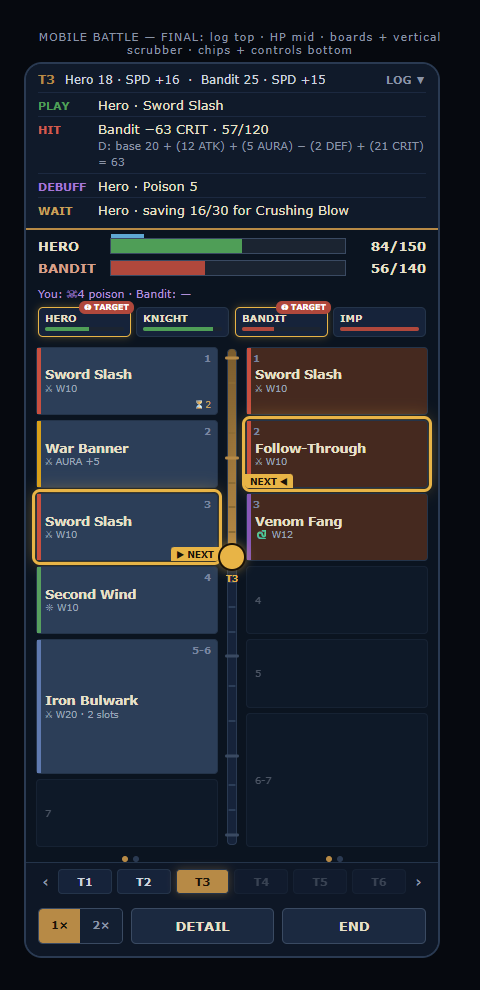
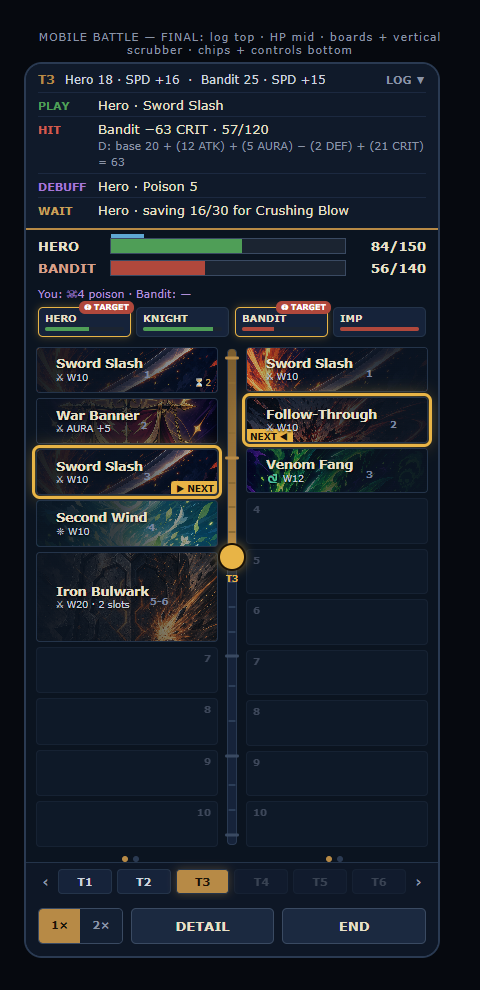
docs: lock CardToken display spec + deck build & prep mobile mockups
CardToken locked (identical across battle/deck build/prep): card art with
left-anchored legibility gradient on BOTH columns, left text with shadow,
4px property accent on the left edge, slot number in the INWARD top corner
on every slot including empties, badge corners (cooldown, gem, NEXT/DRAG
plates), size-N spans with 5-6 numbering, fonts from the profile ladder.
Deck build locked: tab bar, slim holding/trash strips, deck-left/bag-right
10+10 columns, drag primary, gem socketing deferred. Prep v2 vertical
columns (deck vs enemy skills) mocked pending lock. Harmonized mock HTML +
renders checked into docs/mockups and docs/screenshots.

Claude-Session: https://claude.ai/code/session_01Ur2snef5TQNu6p54zPQMwD

Changed region(s): [[0.0625, 0.3333, 0.4688, 0.7879], [0.5, 0.3333, 0.9062, 0.5758]]

diff --git a/docs/mockups/mobile-prep.html b/docs/mockups/mobile-prep.html
@@ -1,0 +1,140 @@
+<!DOCTYPE html>
+<html>
+<head>
+<meta charset="utf-8">
+<style>
+  body { background:#06090f; margin:0; padding:24px; font-family: Verdana, sans-serif; display:flex; justify-content:center; }
+  .phone { width:412px; height:892px; background:#0b1420; border:2px solid #2a3a52; border-radius:18px; overflow:hidden; display:flex; flex-direction:column; }
+  .label { color:#8a94a6; font-size:11px; text-align:center; padding:6px 0; letter-spacing:1px; }
+
+  .tabs { display:flex; gap:6px; padding:8px 10px 4px; }
+  .tab { flex:1; text-align:center; color:#8a94a6; font-size:12px; font-weight:bold; letter-spacing:1px; padding:9px 0; background:#131f32; border:1px solid #2a3a52; border-radius:6px; }
+  .tab.on { background:#b78a46; color:#1a1208; }
+
+  .roster { display:flex; gap:6px; padding:6px 10px 2px; }
+  .rchip { flex:1; background:#16233a; border:1px solid #24344a; border-radius:6px; padding:5px 8px; }
+  .rchip.focus { border-color:#e8b446; box-shadow:0 0 8px #e8b44655; }
+  .rname { color:#e8e0c8; font-size:11px; font-weight:bold; }
+  .rsub { color:#9aa4b6; font-size:9px; margin-top:2px; }
+  .radd { flex:none; width:64px; text-align:center; color:#8a94a6; border-style:dashed; font-size:11px; font-weight:bold; padding:11px 0; }
+
+  /* compact enemy sheet: stats + knobs in two rows */
+  .sheet { margin:4px 10px; background:#101a2a; border:1px solid #2a3a52; border-radius:8px; padding:8px 12px 8px; position:relative; }
+  .spine { position:absolute; left:0; top:0; bottom:0; width:5px; background:#c9a15a; border-radius:8px 0 0 8px; }
+  .ename { color:#e8e0c8; font-size:16px; font-weight:bold; font-family: Georgia, serif; }
+  .etag { position:absolute; right:12px; top:10px; background:#c9a15a; color:#1a1208; font-size:9px; font-weight:bold; padding:3px 8px; border-radius:4px; }
+  .estats { color:#e8e0c8; font-size:11.5px; font-weight:bold; margin-top:4px; }
+  .estats .dim { color:#9aa4b6; font-weight:normal; }
+  .threat { margin-top:3px; color:#d05c4e; font-size:12px; font-weight:bold; }
+  .weak { color:#c9a15a; font-size:10.5px; font-weight:normal; margin-left:8px; }
+  .knobs { display:flex; gap:6px; margin-top:7px; }
+  .titlechips { display:flex; gap:4px; flex:1; }
+  .tc { flex:1; text-align:center; font-size:9px; font-weight:bold; color:#8a94a6; background:#16233a; border:1px solid #24344a; border-radius:4px; padding:6px 0; }
+  .tc.on { background:#c9a15a; color:#1a1208; }
+  .step { display:flex; align-items:center; gap:5px; background:#16233a; border:1px solid #24344a; border-radius:4px; padding:3px 7px; }
+  .step b { color:#e8e0c8; font-size:12px; }
+  .step span { color:#8a94a6; font-size:9px; font-weight:bold; }
+  .pm { color:#e8e0c8; font-size:14px; font-weight:bold; padding:0 3px; }
+
+  /* the vertical columns — same shape as deck build & battle */
+  .colwrap { flex:1; display:flex; gap:8px; padding:4px 10px; }
+  .colhead { color:#b78a46; font-size:10px; font-weight:bold; letter-spacing:1px; text-align:center; padding:2px 0 4px; }
+  .col { flex:1; display:flex; flex-direction:column; }
+  .slots { flex:1; display:flex; flex-direction:column; gap:5px; }
+  .slot { flex:1; background:#121e30; border:1px solid #24344a; border-radius:4px; position:relative; display:flex; align-items:center; padding:0 8px; gap:7px; overflow:hidden; }
+  .slot.empty { opacity:.45; }
+  .accent { position:absolute; left:0; top:0; bottom:0; width:4px; }
+  .cname { color:#e8e0c8; font-size:12px; font-weight:bold; line-height:1.15; text-shadow:0 1px 3px #000; }
+  .csub { color:#c8d0dc; font-size:9px; text-shadow:0 1px 2px #000; }
+  .num { position:absolute; right:6px; top:4px; color:#aab4c6; font-size:10px; font-weight:bold; text-shadow:0 1px 2px #000; z-index:1; }
+  .nume { left:6px; right:auto; }
+  .art { background-size:cover; background-position:center 22%; }
+  .art::before { content:""; position:absolute; inset:0; background:linear-gradient(90deg, #0b1420ee 0%, #0b1420cc 46%, #0b142033 100%); }
+  .art.e::before { background:linear-gradient(270deg, #0b1420ee 0%, #0b1420cc 46%, #0b142033 100%); }
+  .art > * { position:relative; z-index:1; }
+
+  .identity { display:flex; align-items:center; justify-content:center; gap:6px; padding:4px 0 2px; color:#e8e0c8; font-size:10px; font-weight:bold; }
+  .pip { width:9px; height:9px; background:#b78a46; border:1px solid #3a4a62; }
+  .idtail { color:#8a94a6; font-weight:normal; }
+
+  .foot { display:flex; gap:8px; padding:8px 10px 12px; background:#0e1726; border-top:1px solid #24344a; }
+  .btn { background:#1b2940; border:1px solid #3a4a62; color:#e8e0c8; font-size:13px; font-weight:bold; padding:12px 0; text-align:center; border-radius:6px; flex:1; }
+  .btn.gold { background:#b78a46; color:#1a1208; flex:2; }
+</style>
+</head>
+<body>
+
+<div>
+<div class="label">MOBILE PREP v2 — vertical columns: YOUR DECK vs ENEMY SKILLS, like battle</div>
+<div class="phone">
+  <div class="tabs">
+    <div class="tab on">PREP</div>
+    <div class="tab">DECK BUILD</div>
+    <div class="tab">WIKI</div>
+  </div>
+
+  <div class="roster">
+    <div class="rchip focus"><div class="rname">BANDIT DUELIST</div><div class="rsub">ELITE · LV 1 · PL 37.5</div></div>
+    <div class="rchip"><div class="rname">EMBER IMP</div><div class="rsub">MOB · LV 1</div></div>
+    <div class="rchip radd">+ FOE</div>
+  </div>
+
+  <div class="sheet">
+    <div class="spine"></div>
+    <div class="etag">ELITE</div>
+    <div class="ename">Bandit Duelist</div>
+    <div class="estats">HP 140 · SPD 15 · ATK 16 · MAG 0 <span class="dim">· DEF 2 · RES 1 · CRIT 9%</span></div>
+    <div class="threat">DMG/turn 36–43 <span class="weak">⚔ weak to LANCE</span></div>
+    <div class="knobs">
+      <div class="titlechips">
+        <div class="tc">MOB</div><div class="tc">NORM</div><div class="tc on">ELITE</div><div class="tc">BOSS</div>
+      </div>
+      <div class="step"><span>LV</span><div class="pm">−</div><b>1</b><div class="pm">+</div></div>
+      <div class="step"><span>RANK</span><div class="pm">−</div><b>2</b><div class="pm">+</div></div>
+    </div>
+  </div>
+
+  <div class="colwrap">
+    <div class="col">
+      <div class="colhead">YOUR DECK · 8/10 · PL 64</div>
+      <div class="slots">
+        <div class="slot art" style="background-image:url('file:///C:/Users/wenwa/source/repos/wwang109/world1/public/game-art/cards/sword-slash-anime.png')"><div class="accent" style="background:#c94f3f"></div><div><div class="cname">Sword Slash</div><div class="csub">⚔ W10</div></div><div class="num">1</div></div>
+        <div class="slot art" style="background-image:url('file:///C:/Users/wenwa/source/repos/wwang109/world1/public/game-art/cards/war-banner-anime.png')"><div class="accent" style="background:#d8a018"></div><div><div class="cname">War Banner</div><div class="csub">⚔ AURA +5</div></div><div class="num">2</div></div>
+        <div class="slot art" style="background-image:url('file:///C:/Users/wenwa/source/repos/wwang109/world1/public/game-art/cards/sword-slash-anime.png')"><div class="accent" style="background:#c94f3f"></div><div><div class="cname">Sword Slash</div><div class="csub">⚔ W10</div></div><div class="num">3</div></div>
+        <div class="slot art" style="background-image:url('file:///C:/Users/wenwa/source/repos/wwang109/world1/public/game-art/cards/second-wind-anime.png')"><div class="accent" style="background:#57a05f"></div><div><div class="cname">Second Wind</div><div class="csub">❊ HEAL 50</div></div><div class="num">4</div></div>
+        <div class="slot art" style="flex:2; background-image:url('file:///C:/Users/wenwa/source/repos/wwang109/world1/public/game-art/cards/iron-bulwark-anime.png')"><div class="accent" style="background:#5f7ab0"></div><div><div class="cname">Iron Bulwark</div><div class="csub">⚔ SHLD 48 · 2 slots</div></div><div class="num">5-6</div></div>
+        <div class="slot empty"><div class="num">7</div></div>
+        <div class="slot empty"><div class="num">8</div></div>
+        <div class="slot empty"><div class="num">9</div></div>
+        <div class="slot empty"><div class="num">10</div></div>
+      </div>
+      <div class="identity">SWORD <div class="pip"></div><div class="pip"></div><div class="pip"></div> <span class="idtail">+20% DMG</span></div>
+    </div>
+
+    <div class="col">
+      <div class="colhead">ENEMY SKILLS · 3 cards</div>
+      <div class="slots">
+        <div class="slot art e" style="background-image:url('file:///C:/Users/wenwa/source/repos/wwang109/world1/public/game-art/cards/sword-slash-anime.png')"><div class="accent" style="background:#c94f3f"></div><div><div class="cname">Sword Slash</div><div class="csub">⚔ DMG 30</div></div><div class="num nume">1</div></div>
+        <div class="slot art e" style="background-image:url('file:///C:/Users/wenwa/source/repos/wwang109/world1/public/game-art/cards/follow-through-anime.png')"><div class="accent" style="background:#c94f3f"></div><div><div class="cname">Follow-Through</div><div class="csub">⚔ DMG 15 · COMBO</div></div><div class="num nume">2</div></div>
+        <div class="slot art e" style="background-image:url('file:///C:/Users/wenwa/source/repos/wwang109/world1/public/game-art/cards/venom-fang-anime.png')"><div class="accent" style="background:#8858b8"></div><div><div class="cname">Venom Fang</div><div class="csub">🐍 DMG 16 · PSN 5</div></div><div class="num nume">3</div></div>
+        <div class="slot empty"><div class="num nume">4</div></div>
+        <div class="slot empty"><div class="num nume">5</div></div>
+        <div class="slot empty"><div class="num nume">6</div></div>
+        <div class="slot empty"><div class="num nume">7</div></div>
+        <div class="slot empty"><div class="num nume">8</div></div>
+        <div class="slot empty"><div class="num nume">9</div></div>
+        <div class="slot empty"><div class="num nume">10</div></div>
+      </div>
+      <div class="identity"><span class="idtail">tap any card to inspect</span></div>
+    </div>
+  </div>
+
+  <div class="foot">
+    <div class="btn">🎲 SEED 1</div>
+    <div class="btn gold">⚔ FIGHT</div>
+  </div>
+</div>
+</div>
+
+</body>
+</html>

diff --git a/docs/mockups/mobile-deckbuild.html b/docs/mockups/mobile-deckbuild.html
@@ -1,0 +1,122 @@
+<!DOCTYPE html>
+<html>
+<head>
+<meta charset="utf-8">
+<style>
+  body { background:#06090f; margin:0; padding:24px; font-family: Verdana, sans-serif; display:flex; justify-content:center; }
+  .phone { width:412px; height:892px; background:#0b1420; border:2px solid #2a3a52; border-radius:18px; overflow:hidden; display:flex; flex-direction:column; }
+  .label { color:#8a94a6; font-size:11px; text-align:center; padding:6px 0; letter-spacing:1px; }
+
+  /* top-level tab switcher */
+  .tabs { display:flex; gap:6px; padding:8px 10px 4px; }
+  .tab { flex:1; text-align:center; color:#8a94a6; font-size:12px; font-weight:bold; letter-spacing:1px; padding:9px 0; background:#131f32; border:1px solid #2a3a52; border-radius:6px; }
+  .tab.on { background:#b78a46; color:#1a1208; }
+
+  .hdr { display:flex; align-items:center; gap:8px; padding:4px 12px 2px; }
+  .meta { color:#9aa4b6; font-size:10px; }
+  .meta b { color:#e8e0c8; }
+
+  /* transfer strip on TOP — slim */
+  .transfer { margin:3px 10px; border:1px dashed #b78a46; border-radius:6px; background:#12203366; display:flex; align-items:center; gap:10px; padding:4px 10px; }
+  .tslot { width:34px; height:40px; background:#16233a; border:1px solid #3a4a62; border-radius:4px; flex:none; display:flex; align-items:center; justify-content:center; }
+  .tlabel { color:#c9a15a; font-size:11px; font-weight:bold; }
+  .tsub { color:#8a94a6; font-size:9.5px; }
+
+  /* columns */
+  .colwrap { flex:1; display:flex; gap:8px; padding:4px 10px; }
+  .colhead { color:#b78a46; font-size:10px; font-weight:bold; letter-spacing:1px; text-align:center; padding:2px 0 4px; }
+  .col { flex:1; display:flex; flex-direction:column; }
+  .slots { flex:1; display:flex; flex-direction:column; gap:5px; }
+  .slot { flex:1; background:#121e30; border:1px solid #24344a; border-radius:4px; position:relative; display:flex; align-items:center; padding:0 8px; gap:7px; overflow:hidden; }
+  .slot.empty { opacity:.45; }
+  .cardp { background:#2c3e58; }
+  .cardb { background:#243146; }
+  /* CARD ART as the token background + gradient overlay for text legibility */
+  .art { background-size:cover; background-position:center 22%; }
+  .art::before { content:""; position:absolute; inset:0; background:linear-gradient(90deg, #0b1420ee 0%, #0b1420cc 46%, #0b142033 100%); }
+  .art > * { position:relative; z-index:1; }
+  .art .cname { text-shadow:0 1px 3px #000; }
+  .art .csub { color:#c8d0dc; text-shadow:0 1px 2px #000; }
+  .accent { position:absolute; left:0; top:0; bottom:0; width:4px; }
+  .cname { color:#e8e0c8; font-size:12.5px; font-weight:bold; line-height:1.15; }
+  .csub { color:#9aa4b6; font-size:9.5px; }
+  .num { position:absolute; right:6px; top:4px; color:#7a86a0; font-size:10px; font-weight:bold; }
+  .gem { position:absolute; right:6px; bottom:4px; font-size:10px; }
+  .dragging { outline:3px solid #e8b446; outline-offset:1px; box-shadow:0 0 18px #e8b44688; opacity:.92; }
+  .dragging::after { content:"DRAGGING"; position:absolute; right:-2px; bottom:-1px; background:#e8b446; color:#1a1208; font-size:8px; font-weight:bold; padding:1px 5px; border-radius:3px 0 3px 0; }
+  .droptarget { border:2px dashed #e8b446; background:#2a2412; opacity:1; }
+  .droptarget .csub { color:#e8b446; font-weight:bold; }
+
+  /* identity pips under deck column */
+  .identity { display:flex; align-items:center; justify-content:center; gap:6px; padding:5px 0 2px; color:#e8e0c8; font-size:10px; font-weight:bold; }
+  .pip { width:9px; height:9px; background:#b78a46; border:1px solid #3a4a62; }
+  .pip.empty { background:#16233a; }
+  .idtail { color:#8a94a6; font-weight:normal; }
+
+  /* trash on BOTTOM — slim */
+  .trash { margin:3px 10px 10px; border:1px dashed #b0483c; border-radius:6px; background:#2a141266; display:flex; align-items:center; gap:10px; padding:4px 10px; }
+  .trash .tlabel { color:#d05c4e; }
+</style>
+</head>
+<body>
+
+<div>
+<div class="label">MOBILE DECK BUILD — transfer top · deck left / bag right · trash bottom</div>
+<div class="phone">
+  <div class="tabs">
+    <div class="tab">PREP</div>
+    <div class="tab on">DECK BUILD</div>
+    <div class="tab">WIKI</div>
+  </div>
+  <div class="hdr">
+    <div class="meta"><b>LV 1</b> · HP 150 · ATK 12 · MAG 12 · SPD 12 &nbsp;·&nbsp; <b>8/10 slots</b> · PL 64 · 2 gems</div>
+  </div>
+
+  <div class="transfer">
+    <div class="tslot" style="color:#5a6880">⇱</div>
+    <div><div class="tlabel">TEMP HOLDING <span class="tsub">— drop a card to hold it while rearranging</span></div></div>
+  </div>
+
+  <div class="colwrap">
+    <div class="col">
+      <div class="colhead">ACTIVE DECK · 8/10</div>
+      <div class="slots">
+        <div class="slot cardp art" data-art="1" style="background-image:url('file:///C:/Users/wenwa/source/repos/wwang109/world1/public/game-art/cards/sword-slash-anime.png')"><div class="accent" style="background:#c94f3f"></div><div><div class="cname">Sword Slash</div><div class="csub">⚔ W10 · BRONZE</div></div><div class="num">1</div></div>
+        <div class="slot cardp art" data-art="1" style="background-image:url('file:///C:/Users/wenwa/source/repos/wwang109/world1/public/game-art/cards/war-banner-anime.png')"><div class="accent" style="background:#d8a018"></div><div><div class="cname">War Banner</div><div class="csub">⚔ AURA +5</div></div><div class="num">2</div><div class="gem">💎</div></div>
+        <div class="slot cardp art" data-art="1" style="background-image:url('file:///C:/Users/wenwa/source/repos/wwang109/world1/public/game-art/cards/sword-slash-anime.png')"><div class="accent" style="background:#c94f3f"></div><div><div class="cname">Sword Slash</div><div class="csub">⚔ W10</div></div><div class="num">3</div><div class="gem">💎</div></div>
+        <div class="slot cardp art" data-art="1" style="background-image:url('file:///C:/Users/wenwa/source/repos/wwang109/world1/public/game-art/cards/second-wind-anime.png')"><div class="accent" style="background:#57a05f"></div><div><div class="cname">Second Wind</div><div class="csub">❊ W10</div></div><div class="num">4</div></div>
+        <div class="slot cardp art" data-art="1" style="flex:2; background-image:url('file:///C:/Users/wenwa/source/repos/wwang109/world1/public/game-art/cards/iron-bulwark-anime.png')"><div class="accent" style="background:#5f7ab0"></div><div><div class="cname">Iron Bulwark</div><div class="csub">⚔ W20 · 2 slots</div></div><div class="num">5-6</div></div>
+        <div class="slot empty droptarget"><div class="csub">7 — drop to place</div></div>
+        <div class="slot empty"><div class="num">8</div></div><div class="slot empty"><div class="num">9</div></div><div class="slot empty"><div class="num">10</div></div>
+      </div>
+      <div class="identity">SWORD <div class="pip"></div><div class="pip"></div><div class="pip"></div> <span class="idtail">+20% DMG</span></div>
+    </div>
+
+    <div class="col">
+      <div class="colhead">BAG · 6/10</div>
+      <div class="slots">
+        <div class="slot cardb dragging art" data-art="1" style="flex:2; background-image:url('file:///C:/Users/wenwa/source/repos/wwang109/world1/public/game-art/cards/fireball-anime.png')"><div class="accent" style="background:#d86a2a"></div><div><div class="cname">Fireball</div><div class="csub">🔥 W20 · 2 slots · BRN 5</div></div><div class="num nume">1-2</div></div>
+        <div class="slot cardb art" data-art="1" style="background-image:url('file:///C:/Users/wenwa/source/repos/wwang109/world1/public/game-art/cards/mana-ward-anime.png')"><div class="accent" style="background:#5fa8d3"></div><div><div class="cname">Mana Ward</div><div class="csub">❆ SHLD 20</div></div><div class="num nume">3</div></div>
+        <div class="slot cardb art" data-art="1" style="background-image:url('file:///C:/Users/wenwa/source/repos/wwang109/world1/public/game-art/cards/follow-through-anime.png')"><div class="accent" style="background:#c94f3f"></div><div><div class="cname">Follow-Through</div><div class="csub">⚔ COMBO +10</div></div><div class="num nume">4</div></div>
+        <div class="slot cardb art" data-art="1" style="background-image:url('file:///C:/Users/wenwa/source/repos/wwang109/world1/public/game-art/cards/armor-break-anime.png')"><div class="accent" style="background:#8b6f3a"></div><div><div class="cname">Armor Break</div><div class="csub">🪓 −50% DEF</div></div><div class="num nume">5</div></div>
+        <div class="slot cardb art" data-art="1" style="flex:2; background-image:url('file:///C:/Users/wenwa/source/repos/wwang109/world1/public/game-art/cards/crippling-strike-anime.png')"><div class="accent" style="background:#a678d8"></div><div><div class="cname">Crippling Strike</div><div class="csub">🔱 W20 · 2 slots</div></div><div class="num nume">6-7</div></div>
+        <div class="slot cardb art" data-art="1" style="background-image:url('file:///C:/Users/wenwa/source/repos/wwang109/world1/public/game-art/cards/arcane-bolt-anime.png')"><div class="accent" style="background:#5f7ab0"></div><div><div class="cname">Arcane Bolt</div><div class="csub">⚡ DMG 18</div></div><div class="num nume">8</div></div>
+        <div class="slot empty"><div class="num nume">9</div></div><div class="slot empty"><div class="num nume">10</div></div>
+      </div>
+      <div class="identity"><span class="idtail">tap a card to inspect · long-press for gems</span></div>
+    </div>
+  </div>
+
+  <div class="trash">
+    <div class="tslot" style="color:#7a4a42">🗑</div>
+    <div><div class="tlabel">TRASH <span class="tsub">— drop to destroy (asks to confirm)</span></div></div>
+  </div>
+</div>
+</div>
+
+</body>
+</html>
+
+
+
+

diff --git a/docs/mockups/mobile-battle-final.html b/docs/mockups/mobile-battle-final.html
@@ -57,6 +57,13 @@
   .csub { color:#9aa4b6; font-size:9.5px; }
   .num { position:absolute; right:6px; top:4px; color:#7a86a0; font-size:10px; font-weight:bold; }
   .nume { left:6px; right:auto; }
+  /* shared CardToken art treatment — identical to deck build / prep */
+  .art { background-size:cover; background-position:center 22%; overflow:hidden; }
+  .art::before { content:""; position:absolute; inset:0; background:linear-gradient(90deg, #0b1420ee 0%, #0b1420cc 46%, #0b142033 100%); }
+  .art.e::before { background:linear-gradient(270deg, #0b1420ee 0%, #0b1420cc 46%, #0b142033 100%); }
+  .art > * { position:relative; z-index:1; }
+  .art .cname { text-shadow:0 1px 3px #000; }
+  .art .csub { color:#c8d0dc; text-shadow:0 1px 2px #000; }
   .cursor { outline:3px solid #e8b446; outline-offset:1px; box-shadow:0 0 18px #e8b44688; }
   .cursor::after { content:"▶ NEXT"; position:absolute; right:-2px; bottom:-1px; background:#e8b446; color:#1a1208; font-size:9px; font-weight:bold; padding:1px 5px; border-radius:3px 0 3px 0; }
   .cursorE::after { content:"NEXT ◀"; right:auto; left:-2px; border-radius:0 3px 0 3px; }
@@ -118,12 +125,15 @@
   </div>
   <div class="boards">
     <div class="col">
-      <div class="slot cardp"><div class="accent" style="background:#c94f3f"></div><div><div class="cname">Sword Slash</div><div class="csub">⚔ W10</div></div><div class="num">1</div><div class="cooldown">⏳2</div></div>
-      <div class="slot cardp"><div class="accent" style="background:#d8a018"></div><div><div class="cname">War Banner</div><div class="csub">⚔ AURA +5</div></div><div class="num">2</div></div>
-      <div class="slot cardp cursor"><div class="accent" style="background:#c94f3f"></div><div><div class="cname">Sword Slash</div><div class="csub">⚔ W10</div></div><div class="num">3</div></div>
-      <div class="slot cardp"><div class="accent" style="background:#57a05f"></div><div><div class="cname">Second Wind</div><div class="csub">❊ W10</div></div><div class="num">4</div></div>
-      <div class="slot cardp" style="flex:2"><div class="accent" style="background:#5f7ab0"></div><div><div class="cname">Iron Bulwark</div><div class="csub">⚔ W20 · 2 slots</div></div><div class="num">5-6</div></div>
-      <div class="slot empty"><div class="csub">7</div></div>
+      <div class="slot cardp art" style="background-image:url('file:///C:/Users/wenwa/source/repos/wwang109/world1/public/game-art/cards/sword-slash-anime.png')"><div class="accent" style="background:#c94f3f"></div><div><div class="cname">Sword Slash</div><div class="csub">⚔ W10</div></div><div class="num">1</div><div class="cooldown">⏳2</div></div>
+      <div class="slot cardp art" style="background-image:url('file:///C:/Users/wenwa/source/repos/wwang109/world1/public/game-art/cards/war-banner-anime.png')"><div class="accent" style="background:#d8a018"></div><div><div class="cname">War Banner</div><div class="csub">⚔ AURA +5</div></div><div class="num">2</div></div>
+      <div class="slot cardp art cursor" style="background-image:url('file:///C:/Users/wenwa/source/repos/wwang109/world1/public/game-art/cards/sword-slash-anime.png')"><div class="accent" style="background:#c94f3f"></div><div><div class="cname">Sword Slash</div><div class="csub">⚔ W10</div></div><div class="num">3</div></div>
+      <div class="slot cardp art" style="background-image:url('file:///C:/Users/wenwa/source/repos/wwang109/world1/public/game-art/cards/second-wind-anime.png')"><div class="accent" style="background:#57a05f"></div><div><div class="cname">Second Wind</div><div class="csub">❊ W10</div></div><div class="num">4</div></div>
+      <div class="slot cardp art" style="flex:2; background-image:url('file:///C:/Users/wenwa/source/repos/wwang109/world1/public/game-art/cards/iron-bulwark-anime.png')"><div class="accent" style="background:#5f7ab0"></div><div><div class="cname">Iron Bulwark</div><div class="csub">⚔ W20 · 2 slots</div></div><div class="num">5-6</div></div>
+      <div class="slot empty"><div class="num">7</div></div>
+      <div class="slot empty"><div class="num">8</div></div>
+      <div class="slot empty"><div class="num">9</div></div>
+      <div class="slot empty"><div class="num">10</div></div>
     </div>
     <div class="vtrack">
       <div class="vrail"></div>
@@ -151,12 +161,16 @@
       <div class="vlabel">T3</div>
     </div>
     <div class="col">
-      <div class="slot carde"><div class="accent" style="background:#c94f3f"></div><div><div class="cname">Sword Slash</div><div class="csub">⚔ W10</div></div><div class="num nume">1</div></div>
-      <div class="slot carde cursor cursorE"><div class="accent" style="background:#c94f3f"></div><div><div class="cname">Follow-Through</div><div class="csub">⚔ W10</div></div><div class="num nume">2</div></div>
-      <div class="slot carde"><div class="accent" style="background:#8858b8"></div><div><div class="cname">Venom Fang</div><div class="csub">🐍 W12</div></div><div class="num nume">3</div></div>
-      <div class="slot empty"><div class="csub">4</div></div>
-      <div class="slot empty"><div class="csub">5</div></div>
-      <div class="slot empty" style="flex:2"><div class="csub">6-7</div></div>
+      <div class="slot carde art e" style="background-image:url('file:///C:/Users/wenwa/source/repos/wwang109/world1/public/game-art/cards/sword-slash-anime.png')"><div class="accent" style="background:#c94f3f"></div><div><div class="cname">Sword Slash</div><div class="csub">⚔ W10</div></div><div class="num nume">1</div></div>
+      <div class="slot carde art e cursor cursorE" style="background-image:url('file:///C:/Users/wenwa/source/repos/wwang109/world1/public/game-art/cards/follow-through-anime.png')"><div class="accent" style="background:#c94f3f"></div><div><div class="cname">Follow-Through</div><div class="csub">⚔ W10</div></div><div class="num nume">2</div></div>
+      <div class="slot carde art e" style="background-image:url('file:///C:/Users/wenwa/source/repos/wwang109/world1/public/game-art/cards/venom-fang-anime.png')"><div class="accent" style="background:#8858b8"></div><div><div class="cname">Venom Fang</div><div class="csub">🐍 W12</div></div><div class="num nume">3</div></div>
+      <div class="slot empty"><div class="num nume">4</div></div>
+      <div class="slot empty"><div class="num nume">5</div></div>
+      <div class="slot empty"><div class="num nume">6</div></div>
+      <div class="slot empty"><div class="num nume">7</div></div>
+      <div class="slot empty"><div class="num nume">8</div></div>
+      <div class="slot empty"><div class="num nume">9</div></div>
+      <div class="slot empty"><div class="num nume">10</div></div>
     </div>
   </div>
   <div style="display:flex; padding:0 10px;">

diff --git a/docs/superpowers/plans/2026-07-21-mobile-layout-redesign.md b/docs/superpowers/plans/2026-07-21-mobile-layout-redesign.md
@@ -89,9 +89,47 @@ text resolution); the problem is SIZE and DENSITY, not blur.
 | Screen | Intent |
 |---|---|
 | Battle | LOCKED — v5 spec in decision 3 (`docs/mockups/mobile-battle-final.html`, `docs/screenshots/mobile-battle-final-v5.png`) |
-| Deck build | Drag-and-drop kept; bag as 3-wide V2 card grid; full-width 10-slot rail; identity pips beneath; inspect as bottom sheet |
+| Deck build | LOCKED (v2+art mockups, user-approved 2026-07-21): PREP/DECK BUILD/WIKI tab bar on top · slim TEMP HOLDING strip · ACTIVE DECK left / BAG right as battle-style vertical columns (10 slots EACH, size-2 cards span two) · slim TRASH strip on the bottom (confirm on drop) · drag-and-drop primary (short horizontal hop across the gutter) · **tokens use CARD ART backgrounds with a left-anchored dark gradient overlay** (shared constant; same token component as the battle boards; art from `cardArtCatalog`) · identity pips under the deck column · tap = V2 card modal (inspect is modal-only) · **gem socketing UI: DEFERRED** (no mobile design yet — user, 2026-07-21; long-press + bottom sheet was floated, nothing locked) |
 | Prep / choose fight | One enemy visible + swipe between roster entries; keep stat block + DMG/turn threat line |
 | Wiki | Cards grid 2-wide; RULES tabs already single-column and reflow cleanly; TABLE view likely desktop-only or horizontally scrollable |
+
+## Shared components (user-locked 2026-07-22)
+
+All three mobile screens are assemblies of TWO shared components in
+`src/game/ui/` — never per-scene copies:
+
+- **CardToken — DISPLAY SPEC (user-locked 2026-07-22).** Identical on every
+  screen; only size and badge set vary:
+  - **Background**: the card's art (`cardArtCatalog`), cover-fit, focal
+    point ~22% from the top; over it a LEFT-anchored legibility gradient
+    (near-opaque panel color on the left, fading to ~20% by the right
+    edge). The gradient is left-anchored on BOTH columns — text legibility
+    beats visual symmetry; only the slot number mirrors.
+  - **Accent stripe**: 4px property-color bar on the token's left edge,
+    always.
+  - **Text block**: left-aligned over the gradient with text shadow —
+    name (bold, profile type ladder) + one sub-line (type icon · context
+    numbers: weight in battle, effect summary in prep/bag, tier when
+    relevant).
+  - **Slot number**: INWARD top corner — left column top-RIGHT, right
+    column top-LEFT — on every slot, filled or EMPTY (empties are flat
+    panel color at ~45% opacity, no art, number only). The token reserves
+    that corner so the number never collides with name or badges.
+  - **Badges**: cooldown ⏳n bottom-inward corner (battle) · gem 💎
+    bottom-right (deck build) · gold corner plates for ▶ NEXT (cursor) and
+    DRAGGING states · cursor/drag emphasis = 3px gold outline + glow.
+  - **Size-N cards** render as ONE token spanning N slot heights, numbered
+    `5-6` style.
+  - Fonts and paddings come from the layout profile's ladder — the same
+    component renders at battle, deck-build, or prep sizes unchanged.
+- **BoardColumn(pieces, side, mode, bounds)** — 10 slots, size-N cards span
+  N; `side` mirrors gradient/number/accent alignment; `mode` is `playback`
+  (cursor + aura pulse), `editable` (drag), or `readonly` (tap-inspect).
+
+Screen assemblies: battle = header + log dock + 2×BoardColumn(playback) +
+scrubber · deck build = tabs + holding + 2×BoardColumn(editable) + trash ·
+prep = tabs + enemy sheet + BoardColumn(readonly)×2. The invariant across
+all screens: YOUR deck is the LEFT column, the opposition is the RIGHT.
 
 ## Migration order
 
